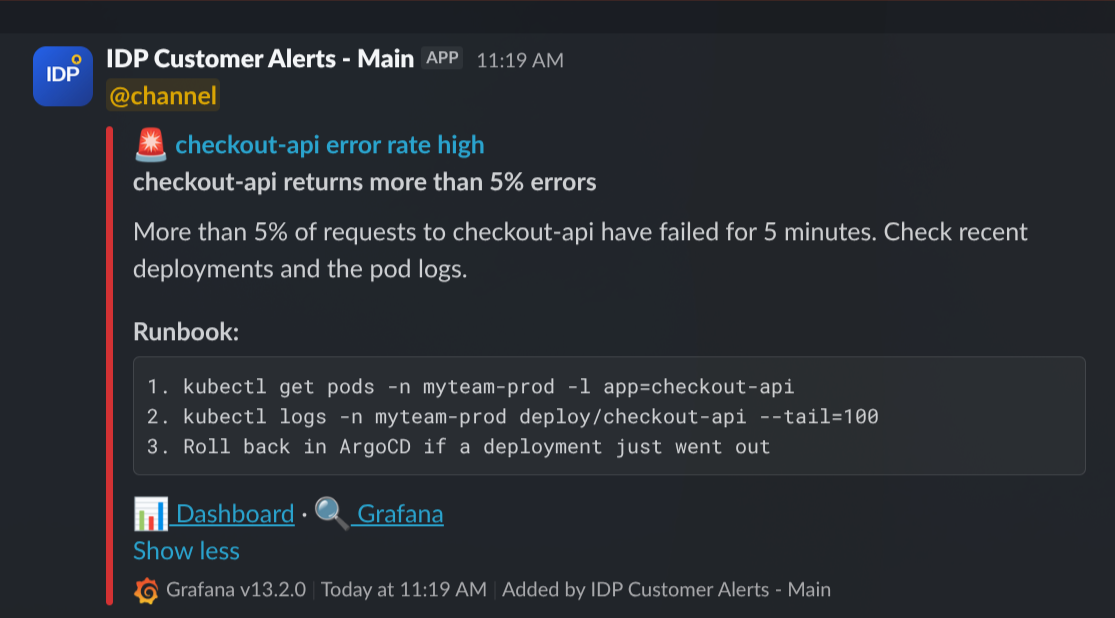
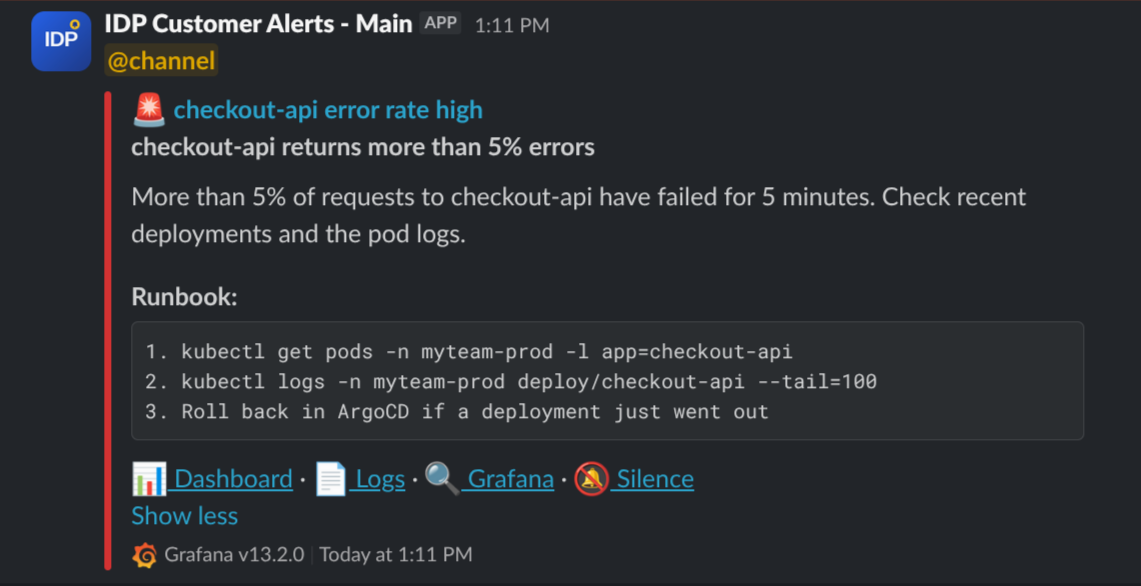
Sync public docs - Wed Sep 23 11:22:10 UTC 2026

Changed region(s): [[0.0, 0.0, 0.9453, 0.9829], [0.4269, 0.0922, 0.5184, 0.1229]]

diff --git a/how-to/idp-managed-alerts.md b/how-to/idp-managed-alerts.md
@@ -35,13 +35,13 @@ review_in: 6 months
 
 # What this is
 
-IDP maintains a curated set of standard infrastructure alerts that customer teams can opt into per namespace. The alerts cover common Kubernetes-level problems that apply to any workload — OOM kills, crashing containers, pods stuck pending or terminating, PVC disk usage, ArgoCD application health, and Kubernetes workload health (Deployment/StatefulSet replicas, rollouts, Jobs, HPA, PDB). They are not application-specific: each alert is defined once by IDP and shipped to every opted-in customer via a versioned Helm chart (`idp-managed-customer-alerts`).
+IDP maintains a curated set of standard infrastructure alerts that customer teams can opt into per namespace. The alerts cover common Kubernetes-level problems that apply to any workload: OOM kills, crashing containers, pods stuck pending or terminating, PVC disk usage, ArgoCD application health, and Kubernetes workload health (Deployment/StatefulSet replicas, rollouts, Jobs, HPA, PDB). They are not application-specific: each alert is defined once by IDP and shipped to every opted-in customer via a versioned Helm chart (`idp-managed-customer-alerts`).
 
 **What IDP owns:** the alert queries, the Slack message format, runbooks, and any future additions to the set. A chart version bump automatically improves every customer's alerts on the next sync.
 
-**What you control:** which alerts are enabled for your namespace, their severity, and numeric thresholds (restart counts, pending durations, PVC usage percentages). You do **not** edit the underlying queries — that keeps the managed set consistent across the platform.
+**What you control:** which alerts are enabled for your namespace, their severity, and numeric thresholds (restart counts, pending durations, PVC usage percentages). You do **not** edit the underlying queries; that keeps the managed set consistent across the platform.
 
-Use this alongside your own team-specific alerts (built with [`idp-grafana-alarm`](/how-to/alerting.html#setting-up-alerts-as-code-helm-chart) or the Grafana UI) — both route to the same Slack channel.
+Use this alongside your own team-specific alerts (built with [`idp-grafana-alarm`](/how-to/alerting.html#setting-up-alerts-as-code-helm-chart) or the Grafana UI). Both route to the same Slack channel.
 
 # Standard alert set
 
@@ -55,27 +55,27 @@ Use this alongside your own team-specific alerts (built with [`idp-grafana-alarm
 | `podTerminatingMajor` | major | A pod is stuck in `Terminating` longer than the configured duration (default 15 min) | enabled, severity, `durationSeconds` |
 | `pvcUsage` | warning / critical | PVC disk usage crosses `warningPercent` (default 80%) or `criticalPercent` (default 90%) | enabled, thresholds |
 | `argocdAppUnhealthy` | warning | Any ArgoCD `Application` targeting your namespace is `OutOfSync`, `Degraded`, `Missing`, or `Unknown` for longer than `forDuration` (default 15 min) | enabled, severity, `forDuration` |
-| `kubeDeploymentReplicasMismatch` | warning | A Deployment has fewer available replicas than its spec for longer than `forDuration` (default 15 min). Typical causes: failing `readinessProbe`, image pull error, app crashing on startup. **Disabled by default** — overlaps with `containerRestartLoop` / `podPendingWarning` | enabled, severity, `forDuration` |
+| `kubeDeploymentReplicasMismatch` | warning | A Deployment has fewer available replicas than its spec for longer than `forDuration` (default 15 min). Typical causes: failing `readinessProbe`, image pull error, app crashing on startup. **Disabled by default**: overlaps with `containerRestartLoop` / `podPendingWarning` | enabled, severity, `forDuration` |
 | `kubeStatefulSetReplicasMismatch` | warning | A StatefulSet has fewer ready replicas than desired for longer than `forDuration` (default 15 min). Typical causes: PVC pending, failing `readinessProbe`, pod crashing on startup | enabled, severity, `forDuration` |
-| `kubeDeploymentRolloutStuck` | warning | A Deployment rollout has not made progress for longer than `forDuration` (default 15 min) — the new ReplicaSet's pods aren't going Ready. Typical causes: new `image.tag` fails `readinessProbe` or crashes on startup. **Disabled by default** — overlaps with `argocdAppUnhealthy` | enabled, severity, `forDuration` |
+| `kubeDeploymentRolloutStuck` | warning | A Deployment rollout has not made progress for longer than `forDuration` (default 15 min): the new ReplicaSet's pods aren't going Ready. Typical causes: new `image.tag` fails `readinessProbe` or crashes on startup. **Disabled by default**: overlaps with `argocdAppUnhealthy` | enabled, severity, `forDuration` |
 | `kubeJobFailed` | warning | A Kubernetes Job hit its backoff limit and the failed Job object still exists `forDuration` later (default 15 min). Add `ttlSecondsAfterFinished` on the Job spec to auto-clean failures | enabled, severity, `forDuration` |
-| `kubeHpaMaxedOut` | warning | An HPA has been pinned at `maxReplicas` for longer than `forDuration` (default 15 min) — the workload cannot scale further. **Disabled by default** to avoid noise from intentionally maxed-out workloads (e.g. predictors at steady state) | enabled, severity, `forDuration` |
-| `kubePdbNotEnoughHealthyPods` | warning | A PodDisruptionBudget has fewer healthy pods than desired for longer than `forDuration` (default 15 min) — node drains targeting the workload are now blocked, which delays IDP cluster maintenance. **Disabled by default** — overlaps with `containerRestartLoop` / `podPendingWarning` | enabled, severity, `forDuration` |
+| `kubeHpaMaxedOut` | warning | An HPA has been pinned at `maxReplicas` for longer than `forDuration` (default 15 min): the workload cannot scale further. **Disabled by default** to avoid noise from intentionally maxed-out workloads (e.g. predictors at steady state) | enabled, severity, `forDuration` |
+| `kubePdbNotEnoughHealthyPods` | warning | A PodDisruptionBudget has fewer healthy pods than desired for longer than `forDuration` (default 15 min): node drains targeting the workload are now blocked, which delays IDP cluster maintenance. **Disabled by default**: overlaps with `containerRestartLoop` / `podPendingWarning` | enabled, severity, `forDuration` |
 | `lokiLineTooLong` | warning | A container in your namespace has logged ≥ `lineCountThreshold` lines larger than 5 MB within a 10-minute window. Lines this large are dropped by the log shipper before they reach Loki, so the entries are permanently lost from Grafana | enabled, severity, `lineCountThreshold` |
 
-Slack messages include a title with severity emoji and alert name, a bold summary with the offending pod/PVC/app identifier, a runbook section, and links to the relevant Grafana dashboard, the alert in Grafana, and ArgoCD. The pod-pending and restart-loop alerts additionally decode the container's waiting reason (e.g. `CreateContainerConfigError`, `ImagePullBackOff`) so you can triage before opening Grafana.
+Slack messages include a title with severity emoji and alert name, a bold summary with the offending pod/PVC/app identifier, a runbook section, and links to the relevant Grafana dashboard, the alert in Grafana, and ArgoCD, plus a Silence link while the alert is firing. The pod-pending and restart-loop alerts additionally decode the container's waiting reason (e.g. `CreateContainerConfigError`, `ImagePullBackOff`) so you can triage before opening Grafana.
 
 For the pod- and workload-level alerts, the runbook links straight to a per-namespace **logs dashboard** with the affected namespace and pod pre-filled, so you can read the relevant logs without writing a Loki query yourself. It's filterable by severity and free-text and defaults to the last hour, with an "Open in Explore" button when you want to dig further.
 
 # What the alerts look like in Slack
 
-> The screenshots below are snapshots taken at the time this guide was written. They illustrate the typical shape of an alert — the exact layout, links, and runbook wording evolve over time and may look different when you see them in your channel.
+> The screenshots below are snapshots taken at the time this guide was written. They illustrate the typical shape of an alert. The exact layout, links, and runbook wording evolve over time and may look different when you see them in your channel.
 
 **Example: ArgoCD Application Unhealthy.**
 
 <img src="../assets/idp-managed-alerts-argocd-example.png" alt="ArgoCD Application Unhealthy alert example" width="500" style="display: block; margin-left: 0; margin-right: auto;" />
 
-A typical alert: severity emoji and alert name in the title, a summary line with the offending identifier (here the ArgoCD `Application` name and its sync/health state), a runbook block with first-response guidance, and action links to open the resource directly in ArgoCD and Grafana. The `Show more` link at the bottom is Slack's own affordance — click it to see any additional metadata Slack has folded away. **If the action links (`ArgoCD`, `Grafana`) don't appear on a message, click "Show more" to reveal them** — Slack sometimes collapses the links section by default. This is a Slack rendering behaviour, not a chart bug.
+A typical alert: severity emoji and alert name in the title, a summary line with the offending identifier (here the ArgoCD `Application` name and its sync/health state), a runbook block with first-response guidance, and action links to open the resource directly in ArgoCD and Grafana. The `Show more` link at the bottom is Slack's own affordance: click it to see any additional metadata Slack has folded away. **If the action links (`ArgoCD`, `Grafana`) don't appear on a message, click "Show more" to reveal them**. Slack sometimes collapses the links section by default. This is a Slack rendering behaviour, not a chart bug.
 
 **Example: Pod Stuck Pending with reason decoded.**
 
@@ -87,7 +87,7 @@ For pod-pending and restart-loop alerts, the runbook decodes the container's wai
 
 ## Step 1: Request a Slack contact point
 
-IDP owns the Slack contact points centrally — one per environment, shared between the managed alerts and any manual alerts you create in the Grafana UI. This avoids duplicate notifications and keeps the webhook URL under central governance.
+IDP owns the Slack contact points centrally: one per environment, shared between the managed alerts and any manual alerts you create in the Grafana UI. This avoids duplicate notifications and keeps the webhook URL under central governance.
 
 Contact the IDP team on Slack with:
 
@@ -98,7 +98,7 @@ IDP will configure the contact point in Grafana and let you know the exact `cont
 
 ## Step 2: Deploy the chart in your apps repo
 
-In your `apps-<team>` repo, create a directory under `apps/<namespace>/idp-managed-alerts/` — one per namespace you want the alerts to cover (typically one per environment):
+In your `apps-<team>` repo, create a directory under `apps/<namespace>/idp-managed-alerts/`, one per namespace you want the alerts to cover (typically one per environment):
 
 **`application.yaml`:**
 
@@ -118,13 +118,13 @@ helm:
 contactPointRef: "Slack - MyTeam dev"
 ```
 
-That's the full minimal config. The chart infers your namespace from the ArgoCD release (one chart instance per namespace) and enables the default alert set with the default severities and thresholds shown in the [standard alert set](#standard-alert-set) table above. Commit and push — ArgoCD picks it up on the next sync.
+That's the full minimal config. The chart infers your namespace from the ArgoCD release (one chart instance per namespace) and enables the default alert set with the default severities and thresholds shown in the [standard alert set](#standard-alert-set) table above. Commit and push, and ArgoCD picks it up on the next sync.
 
 After deploy you'll find a new Grafana folder named `idp-managed-customer-alerts-<namespace>` containing the active alert rules.
 
 ## Step 3: Verify end-to-end with a self-test
 
-Alerts in Grafana don't prove that Slack routing works — they only prove the rule evaluated. To confirm a message actually reaches your channel, enable the built-in self-test:
+Alerts in Grafana don't prove that Slack routing works; they only prove the rule evaluated. To confirm a message actually reaches your channel, enable the built-in self-test:
 
 ```yaml
 contactPointRef: "Slack - MyTeam dev"
@@ -152,7 +152,7 @@ standardAlerts:
     enabled: false    # You're fine with just the warning-level pending alert
 ```
 
-Omitting a key entirely leaves it at the chart default (see the [standard alert set](#standard-alert-set) table — most are enabled by default, a couple are off).
+Omitting a key entirely leaves it at the chart default (see the [standard alert set](#standard-alert-set) table; most are enabled by default, a couple are off).
 
 ## Adjusting severity
 
@@ -164,7 +164,7 @@ standardAlerts:
     severity: critical    # OOMs are pager-worthy for this workload
 ```
 
-Severity controls the emoji in the Slack message and the `severity` label on the alert. It does **not** change routing — all alerts from this chart go to the contact point named in `contactPointRef`.
+Severity controls the emoji in the Slack message and the `severity` label on the alert. It does **not** change routing: all alerts from this chart go to the contact point named in `contactPointRef`.
 
 ## Adjusting thresholds and durations
 
@@ -187,7 +187,7 @@ standardAlerts:
     warningPercent: 70
     criticalPercent: 85
 
-  # ArgoCD apps often deploy slowly in prod — give them longer
+  # ArgoCD apps often deploy slowly in prod, so give them longer
   argocdAppUnhealthy:
     forDuration: 30m
 
@@ -197,7 +197,7 @@ standardAlerts:
     lineCountThreshold: 5
 ```
 
-The PromQL itself is not exposed — if you need a query change, open a request with the IDP team.
+The PromQL itself is not exposed. If you need a query change, open a request with the IDP team.
 
 # Slack routing
 
@@ -208,44 +208,44 @@ Alert rule (this chart)  ──► GrafanaContactPoint (IDP-owned)  ──►  S
       (your namespace)        (monitoring namespace)                (IDP-administered)
 ```
 
-The chart renders only alert rule groups and a per-namespace folder. The contact point — including the webhook URL, message title/text templates, and Slack app governance — lives in `idp-eks-tooling` and is maintained by IDP. Any manual Grafana-UI alerts you create and route to the same contact point render with the identical message format.
+The chart renders only alert rule groups and a per-namespace folder. The contact point, including the webhook URL, message title/text templates, and Slack app governance, lives in `idp-eks-tooling` and is maintained by IDP. Any manual Grafana-UI alerts you create and route to the same contact point render with the identical message format.
 
 ## Message format
 
-IDP owns the Slack title/text template and iterates on it centrally — severity emoji, identifier, runbook section, and links layout are uniform across every team using the managed alerts. You don't configure this in your values file.
+IDP owns the Slack title/text template and iterates on it centrally: severity emoji, identifier, runbook section, and links layout are uniform across every team using the managed alerts. You don't configure this in your values file.
 
-Because the template lives on the contact point, **every alert routed to a given contact point renders the same way** — including manual alerts you create in the Grafana UI against the same receiver. That consistency is the point: on-call engineers see the same layout regardless of which team or alert source fired.
+Because the template lives on the contact point, **every alert routed to a given contact point renders the same way**, including manual alerts you create in the Grafana UI against the same receiver. That consistency is the point: on-call engineers see the same layout regardless of which team or alert source fired.
 
-If your team wants a custom message format (e.g. a stripped-down one-liner, or extra fields specific to your product), that has to live on its own contact point routed to its own Slack channel. It can't share a channel with IDP-managed alerts — the template is all-or-nothing per contact point. Talk to the IDP team if you have that need and we'll figure out whether it fits the platform or makes more sense for your team to run separately.
+If your team wants a custom message format (e.g. a stripped-down one-liner, or extra fields specific to your product), that has to live on its own contact point routed to its own Slack channel. It can't share a channel with IDP-managed alerts, because the template is all-or-nothing per contact point. Talk to the IDP team if you have that need and we'll figure out whether it fits the platform or makes more sense for your team to run separately.
 
 ## Repeat notifications
 
-A firing alert that doesn't resolve on its own will re-post to Slack roughly every **4 hours** until the underlying condition clears. This is Grafana's default re-notification interval and is intentional — it keeps unresolved incidents visible without being noisy. If you see the same alert reappear in your channel hours after the first notification, that's the repeat, not a new incident.
+A firing alert that doesn't resolve on its own will re-post to Slack roughly every **4 hours** until the underlying condition clears. This is Grafana's default re-notification interval and is intentional: it keeps unresolved incidents visible without being noisy. If you see the same alert reappear in your channel hours after the first notification, that's the repeat, not a new incident.
 
 Options if an alert is firing and you don't plan to fix it right now:
 
-- **Fix or mitigate** the issue so the condition clears — the alert auto-resolves.
-- **Silence it in Grafana** (Alerting → Silences) for a specific window if you're deliberately ignoring it (planned maintenance, known-bad test env, etc.).
+- **Fix or mitigate** the issue so the condition clears, and the alert auto-resolves.
+- **Silence it in Grafana** with the Silence link on the Slack message (or Alerting → Silences) for a specific window if you're deliberately ignoring it (planned maintenance, known-bad test env, etc.).
 - **Disable the alert** in your values.yaml (`standardAlerts.<key>.enabled: false`) if it's permanently not useful for your workload.
 
 ## Resolve-and-refire on chart upgrades
 
-When IDP publishes a new chart version and ArgoCD rolls it out to your namespace, you may see currently-firing alerts **resolve and then immediately re-fire** in Slack — you'll get a `:white_check_mark: Resolved` message followed within seconds by the usual firing message for the same alert.
+When IDP publishes a new chart version and ArgoCD rolls it out to your namespace, you may see currently-firing alerts **resolve and then immediately re-fire** in Slack: you'll get a `:white_check_mark: Resolved` message followed within seconds by the usual firing message for the same alert.
 
-This is expected Grafana behaviour, not an incident recurring. Alert state is keyed by rule identity (UID + labels + evaluation fingerprint). When the alert rule group is replaced during an upgrade — or when labels, annotations, or queries change between chart versions — Grafana can no longer correlate the new rule with the old firing state, so it treats the in-flight alert as resolved and then evaluates the new rule, which fires again.
+This is expected Grafana behaviour, not an incident recurring. Alert state is keyed by rule identity (UID + labels + evaluation fingerprint). When the alert rule group is replaced during an upgrade, or when labels, annotations, or queries change between chart versions, Grafana can no longer correlate the new rule with the old firing state, so it treats the in-flight alert as resolved and then evaluates the new rule, which fires again.
 
-If the timestamps on the resolved/refire pair are within a minute of each other and tied to a chart bump, it's this behaviour. Nothing to action — the underlying condition never changed.
+If the timestamps on the resolved/refire pair are within a minute of each other and tied to a chart bump, it's this behaviour. Nothing to action: the underlying condition never changed.
 
 ## Changing the Slack channel
 
-The default is one channel per environment — `#myteam-dev-alerts`, `#myteam-test-alerts`, `#myteam-prod-alerts` — which keeps noisy non-prod alerts out of the prod channel. If that suits you, no action needed.
+The default is one channel per environment (`#myteam-dev-alerts`, `#myteam-test-alerts`, `#myteam-prod-alerts`), which keeps noisy non-prod alerts out of the prod channel. If that suits you, no action needed.
 
 If you'd rather consolidate (e.g. dev and test into a shared non-prod channel, or everything into one), how you do it depends on where your environments run:
 
-- **Namespaces in the same cluster** share a Grafana and its contact points. Just point their `contactPointRef` at the same contact point in your values files — no IDP action needed, as long as that contact point already exists. Example: if `myteam-dev` and `myteam-test` both live in `idp-shared-test`, setting `contactPointRef: "Slack - MyTeam nonprod"` in both values files routes both namespaces' alerts to the same channel.
-- **Namespaces in different clusters** each have their own Grafana, so you can't share a contact point from values alone. Contact the IDP team on Slack and say which channel each environment should post to — we update the webhook URL on the relevant contact points and the change takes effect immediately (no redeploy on your side).
+- **Namespaces in the same cluster** share a Grafana and its contact points. Just point their `contactPointRef` at the same contact point in your values files. No IDP action is needed, as long as that contact point already exists. Example: if `myteam-dev` and `myteam-test` both live in `idp-shared-test`, setting `contactPointRef: "Slack - MyTeam nonprod"` in both values files routes both namespaces' alerts to the same channel.
+- **Namespaces in different clusters** each have their own Grafana, so you can't share a contact point from values alone. Contact the IDP team on Slack and say which channel each environment should post to. We update the webhook URL on the relevant contact points and the change takes effect immediately (no redeploy on your side).
 
-Got a setup that doesn't fit either pattern? Reach out to the IDP team on Slack and we'll take a look together. We may ask you to adjust the request if it falls far outside the standard patterns — keeping the setup consistent across teams is what makes the managed alerts sustainable to run — but we'd rather have the conversation than leave you stuck.
+Got a setup that doesn't fit either pattern? Reach out to the IDP team on Slack and we'll take a look together. We may ask you to adjust the request if it falls far outside the standard patterns (keeping the setup consistent across teams is what makes the managed alerts sustainable to run), but we'd rather have the conversation than leave you stuck.
 
 ## @channel / @here mentions
 
@@ -253,36 +253,36 @@ Some teams want alerts to ping the whole channel (`@channel`) or just whoever's 
 
 Common choices:
 
-- **No mention** (silent) — appropriate for non-prod channels and for teams that don't use Slack as their primary on-call path.
-- **`@here`** — pings online channel members. A middle ground for prod when you have an on-call rotation but don't want to wake people up who are explicitly away.
-- **`@channel`** — pings everyone regardless of presence. Useful for prod channels that act as the last line of defence; avoid on non-prod or you'll train people to mute the channel.
+- **No mention** (silent): appropriate for non-prod channels and for teams that don't use Slack as their primary on-call path.
+- **`@here`**: pings online channel members. A middle ground for prod when you have an on-call rotation but don't want to wake people up who are explicitly away.
+- **`@channel`**: pings everyone regardless of presence. Useful for prod channels that act as the last line of defence; avoid on non-prod or you'll train people to mute the channel.
 
 Tell the IDP team on Slack which behaviour you want per environment and we'll update the contact point. Change takes effect immediately, no redeploy.
 
-Mentions are set per environment (per contact point), not per alert — all alerts from a given environment currently get the same treatment. We don't support per-alert or per-severity mentions today, but it's something we could add if enough teams want it. Let us know if that would be useful.
+Mentions are set per environment (per contact point), not per alert: all alerts from a given environment currently get the same treatment. We don't support per-alert or per-severity mentions today, but it's something we could add if enough teams want it. Let us know if that would be useful.
 
 # Troubleshooting
 
-**No alerts appear in the Grafana folder after deploy.** First check that the ArgoCD application is Healthy and Synced. If it is but the folder is empty (or missing rules), the most common cause is a `contactPointRef` typo — the value must match the contact point's `spec.name` exactly, including spacing and casing. Double-check the name IDP gave you, update your values file, and resync. If that doesn't fix it, contact the IDP team.
+**No alerts appear in the Grafana folder after deploy.** First check that the ArgoCD application is Healthy and Synced. If it is but the folder is empty (or missing rules), the most common cause is a `contactPointRef` typo: the value must match the contact point's `spec.name` exactly, including spacing and casing. Double-check the name IDP gave you, update your values file, and resync. If that doesn't fix it, contact the IDP team.
 
-**Alert rule group stays in error state after a contact-point change.** The grafana-operator can cache provisioning errors after a contact-point rename or re-point, and won't recover on its own even once the underlying issue is fixed. Contact the IDP team — we can force a re-reconcile cluster-side.
+**Alert rule group stays in error state after a contact-point change.** The grafana-operator can cache provisioning errors after a contact-point rename or re-point, and won't recover on its own even once the underlying issue is fixed. Contact the IDP team, and we can force a re-reconcile cluster-side.
 
-**Alerts fire in Grafana but nothing arrives in Slack.** The contact point or its webhook is broken — contact the IDP team. The self-test uses the same routing, so enabling it won't help diagnose this.
+**Alerts fire in Grafana but nothing arrives in Slack.** The contact point or its webhook is broken. Contact the IDP team. The self-test uses the same routing, so enabling it won't help diagnose this.
 
-**Dashboard link in a Slack message 404s.** Report it to the IDP team — dashboard UIDs are baked into the chart, so a broken link means either the dashboard was renamed or a new cluster is missing it.
+**Dashboard link in a Slack message 404s.** Report it to the IDP team. Dashboard UIDs are baked into the chart, so a broken link means either the dashboard was renamed or a new cluster is missing it.
 
-Not sure whether something is a bug, a misconfiguration, or just how the alerts are supposed to behave? Ping us on Slack — we'd rather hear from you one time too many than have you stuck guessing. We're happy to take a look together.
+Not sure whether something is a bug, a misconfiguration, or just how the alerts are supposed to behave? Ping us on Slack. We'd rather hear from you one time too many than have you stuck guessing. We're happy to take a look together.
 
 # Relationship to other alerting options
 
-- **This chart (`idp-managed-customer-alerts`)** — opinionated, curated, IDP-maintained. Opt in, override thresholds, get platform-wide improvements for free.
-- **[`idp-grafana-alarm`](/how-to/alerting.html#setting-up-alerts-as-code-helm-chart)** — generic building block for your own team-specific alerts (export YAML from Grafana, paste into values). You write the PromQL.
-- **Grafana UI** — ad-hoc or exploratory alerts. Route them to the same contact point and they share the Slack format with the managed alerts.
+- **This chart (`idp-managed-customer-alerts`)**: opinionated, curated, IDP-maintained. Opt in, override thresholds, get platform-wide improvements for free.
+- **[`idp-grafana-alarm`](/how-to/alerting.html#setting-up-alerts-as-code-helm-chart)**: generic building block for your own team-specific alerts (export YAML from Grafana, paste into values). You write the PromQL.
+- **Grafana UI**: ad-hoc or exploratory alerts. Route them to the same contact point and they share the Slack format with the managed alerts.
 
 All three can run side-by-side in the same namespace.
 
 # References
 
 - [Chart source and releases](https://github.com/jppol-idp/helm-idp/tree/main/charts/idp-managed-customer-alerts)
-- [values.yaml schema (latest)](https://public.docs.idp.jppol.dk/schemas/idp-managed-customer-alerts/latest.json) — pin a specific version in your values.yaml `$schema` comment
-- [Working with Alerting](/how-to/alerting.html) — general Grafana alerting guide and `idp-grafana-alarm` usage
+- [values.yaml schema (latest)](https://public.docs.idp.jppol.dk/schemas/idp-managed-customer-alerts/latest.json): pin a specific version in your values.yaml `$schema` comment
+- [Working with Alerting](/how-to/alerting.html): general Grafana alerting guide and `idp-grafana-alarm` usage

diff --git a/how-to/alerting.md b/how-to/alerting.md
@@ -86,7 +86,7 @@ Grafana's built-in alerting allows you to monitor your data and receive notifica
    - Enter a name for your alert rule.
    - Define your query and alert condition (choose your data source, write your query, and set the condition).
    - Add a folder and any relevant labels (e.g., `severity`).
-   - Set evaluation behavior (check interval, no data handling—see recommendations above).
+   - Set evaluation behavior (check interval, no data handling; see recommendations above).
    - Configure notifications by selecting your team's dedicated Slack contact point.
    - Optionally, customize the notification message.
 
@@ -263,7 +263,7 @@ The exported YAML maps directly to the chart's `values.yaml`. You only need to:
 
 1. **Remove** the wrapper lines (`apiVersion`, `groups`, `orgId`, `folder`)
 2. **Add** `folder` and `interval` at the top
-3. **Paste** the `rules` block as-is — no changes needed, including `notification_settings`
+3. **Paste** the `rules` block as-is, with no changes needed, including `notification_settings`
 
 ```yaml
 # Choose ONE of these folder options:
@@ -278,7 +278,7 @@ folder: "My Team Alerts"
 # Evaluation interval (from groups[].interval in the export)
 interval: 1m
 
-# Paste rules directly from the export — no modifications needed
+# Paste rules directly from the export, no modifications needed
 rules:
   - uid: abc123xyz
     title: High Error Rate
@@ -425,7 +425,7 @@ groups:
               type: threshold
 ```
 
-Each group becomes a separate alert rule group in Grafana with its own name and evaluation interval. You can also use `groups` alongside the top-level `rules` key — `rules` creates one group named after the Helm release, and `groups` creates additional named groups.
+Each group becomes a separate alert rule group in Grafana with its own name and evaluation interval. You can also use `groups` alongside the top-level `rules` key: `rules` creates one group named after the Helm release, and `groups` creates additional named groups.
 
 > **Tip:** When exporting multiple groups from the Grafana UI, each `groups[]` entry in the export maps directly to an entry in the `groups` list. Just copy the `name`, `interval`, and `rules` from each.
 
@@ -446,17 +446,17 @@ Each group becomes a separate alert rule group in Grafana with its own name and 
 
 2. Add the `values.yaml` you created in step 3
 
-3. Commit and push to `main` — ArgoCD will deploy the alert rules automatically
+3. Commit and push to `main`, and ArgoCD will deploy the alert rules automatically
 
 ### Deleting an Alert
 
-With the grafana-operator approach, deleting alerts is straightforward: simply remove the alert rule from your `values.yaml` (or remove the entire ArgoCD application) and push the change. The grafana-operator handles cleanup automatically via Kubernetes finalizers — no special delete manifests needed.
+With the grafana-operator approach, deleting alerts is straightforward: simply remove the alert rule from your `values.yaml` (or remove the entire ArgoCD application) and push the change. The grafana-operator handles cleanup automatically via Kubernetes finalizers, so no special delete manifests are needed.
 
 ---
 
 ## Requesting a Slack Contact Point
 
-Each team has a dedicated Slack contact point per environment that IDP provisions on your behalf. Webhooks and the Slack app are centrally governed by the IDP team — you don't need to bring your own webhook URL.
+Each team has a dedicated Slack contact point per environment that IDP provisions on your behalf. Webhooks and the Slack app are centrally governed by the IDP team, so you don't need to bring your own webhook URL.
 
 To request contact points, reach out to the IDP team on Slack with:
 
@@ -465,7 +465,7 @@ To request contact points, reach out to the IDP team on Slack with:
 
 The IDP team sets up the webhook, creates the `GrafanaContactPoint` in your cluster(s), and lets you know the exact receiver name (typically `"Slack - <Team> <env>"`) to use in your alert rules.
 
-The same contact point serves all three sources of alerts — [`idp-managed-customer-alerts`](/how-to/idp-managed-alerts.html) (IDP's curated standard alerts), `idp-grafana-alarm` (your own alerts-as-code), and any manual alerts you create in the Grafana UI — so all alerts routed to the contact point share the same Slack channel and message format.
+The same contact point serves all three sources of alerts: [`idp-managed-customer-alerts`](/how-to/idp-managed-alerts.html) (IDP's curated standard alerts), `idp-grafana-alarm` (your own alerts-as-code), and any manual alerts you create in the Grafana UI, so all alerts routed to the contact point share the same Slack channel and message format.
 
 ## How Your Alert Looks in Slack
 
@@ -483,8 +483,11 @@ The Slack contact point decides the message layout, and it builds the message fr
 | Dashboard link | Annotation `dashboard`, a full URL. Copy it from your browser | Left out |
 | Logs link | Annotation `logs`, a full URL to the logs in Explore | Left out |
 | Grafana link | Added automatically, opens the alert rule | Always shown |
+| Silence link | Added automatically while the alert is firing, opens a new silence in Grafana | Not shown on resolved messages |
 
 If the links don't show, click **Show more**. Slack folds long messages by default.
+
+The Silence link fills in the alert rule and the alert's labels, such as the pod, so the silence covers only that one alert. Remove matchers in the form if you want to silence more, then pick a duration and save. Creating a silence requires the Editor role in Grafana.
 
 When the alert resolves, a new message is sent with a check mark and "Resolved" in the title.
 
